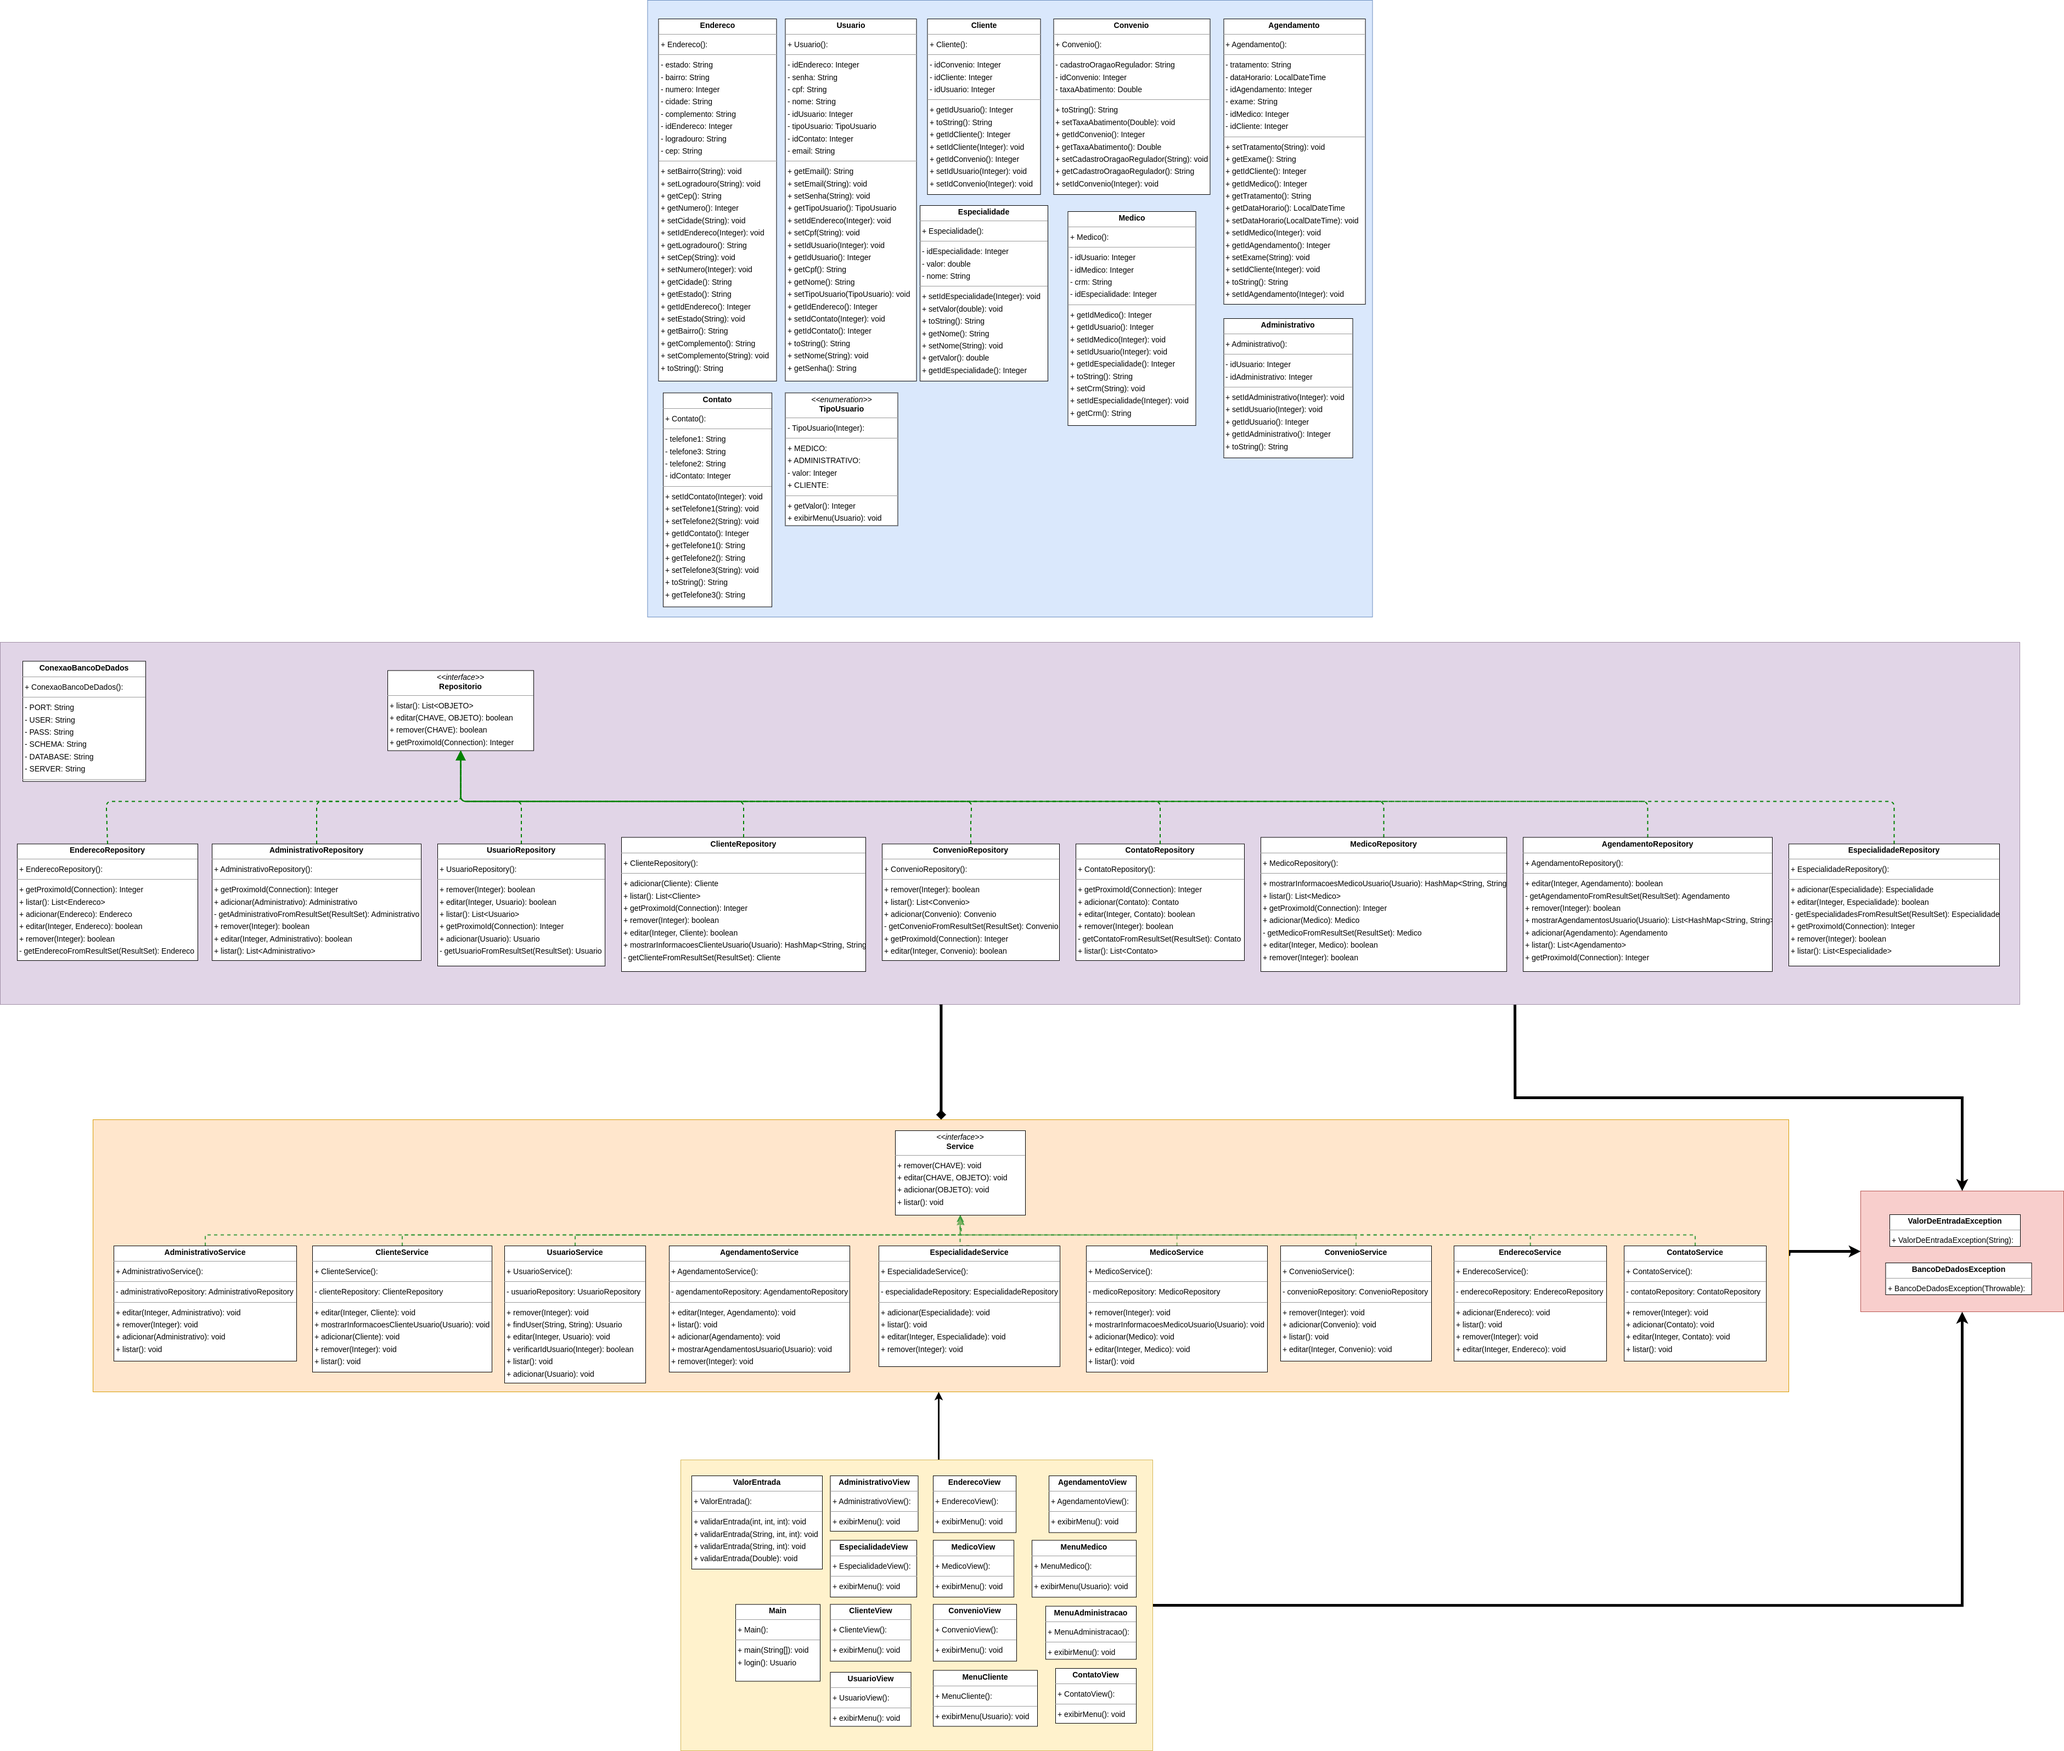
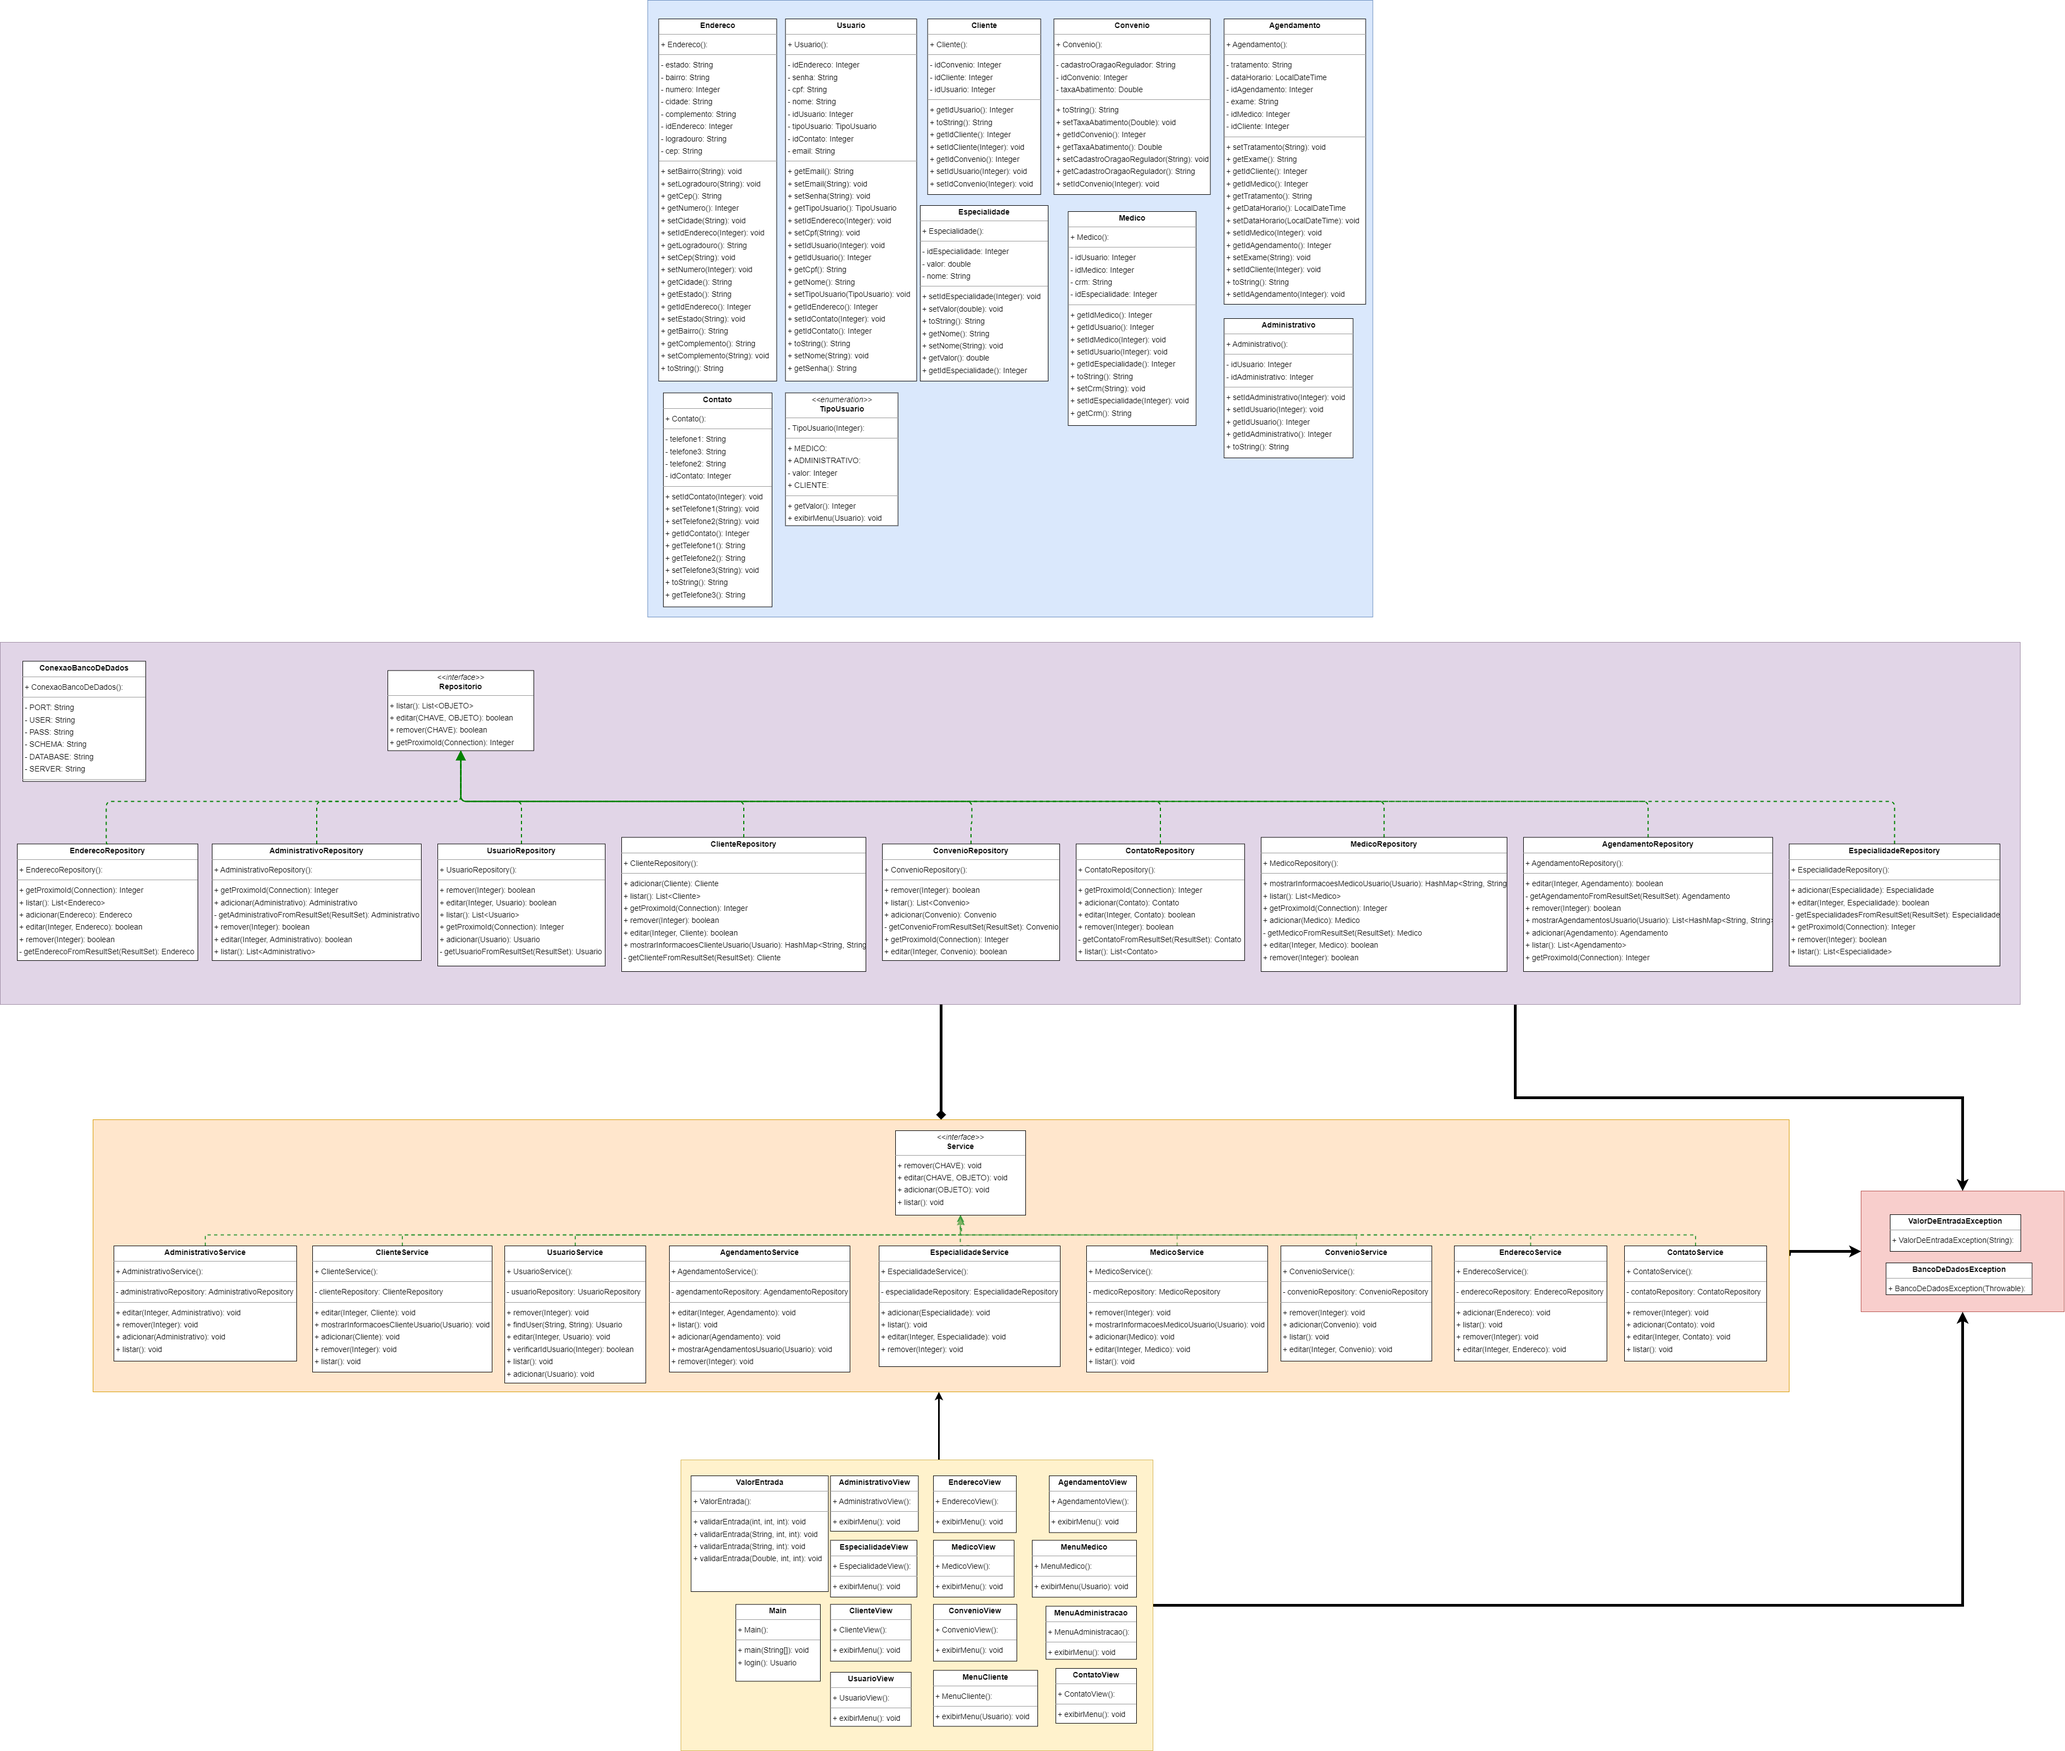
correção diagrama e excluindo comentario no codigo

diff --git a/src/com/dbc/view/ValorEntrada.java b/src/com/dbc/view/ValorEntrada.java
@@ -34,25 +34,6 @@ public class ValorEntrada {
 
     }
 
-//    public static void validarEntrada(Double taxa) {
-//        if (taxa < 0 || taxa > 100) {
-//            throw new ValorDeEntradaException("Taxa fora do permitido: " + taxa + ". O número da taxa precisa ser entre " + 0 + " e " + 100 + ".");
-//        }
-//        if (taxa != null) {
-//            if (taxa > 99) {
-//                System.err.println("Erro em 'Taxa de Abatimento': Número inválido como taxa (%)!");
-//            }
-//
-//            Double valorDeEntrada = taxa;
-//            String valorComCasasDividas[] = valorDeEntrada.toString().split("\\.");
-//
-//            if (valorComCasasDividas[0].length() > 2 || (valorComCasasDividas.length == 2 && valorComCasasDividas[1].length() > 2)) {
-//                throw new ValorDeEntradaException("Caracteres inserido número incorreto: " + taxa + ". A taxa precisa ter 4 casas, sendo duas decimais.");
-//            }
-//        }
-//
-//    }
-
     public static void validarEntrada(Double valor, int casasAntesDaVirgula, int casasAposDaVirgula) {
             BigDecimal valorDeEntrada = new BigDecimal(valor).setScale(2, BigDecimal.ROUND_UP);
             String valorComCasasDividas[] = valorDeEntrada.toString().split("\\.");
